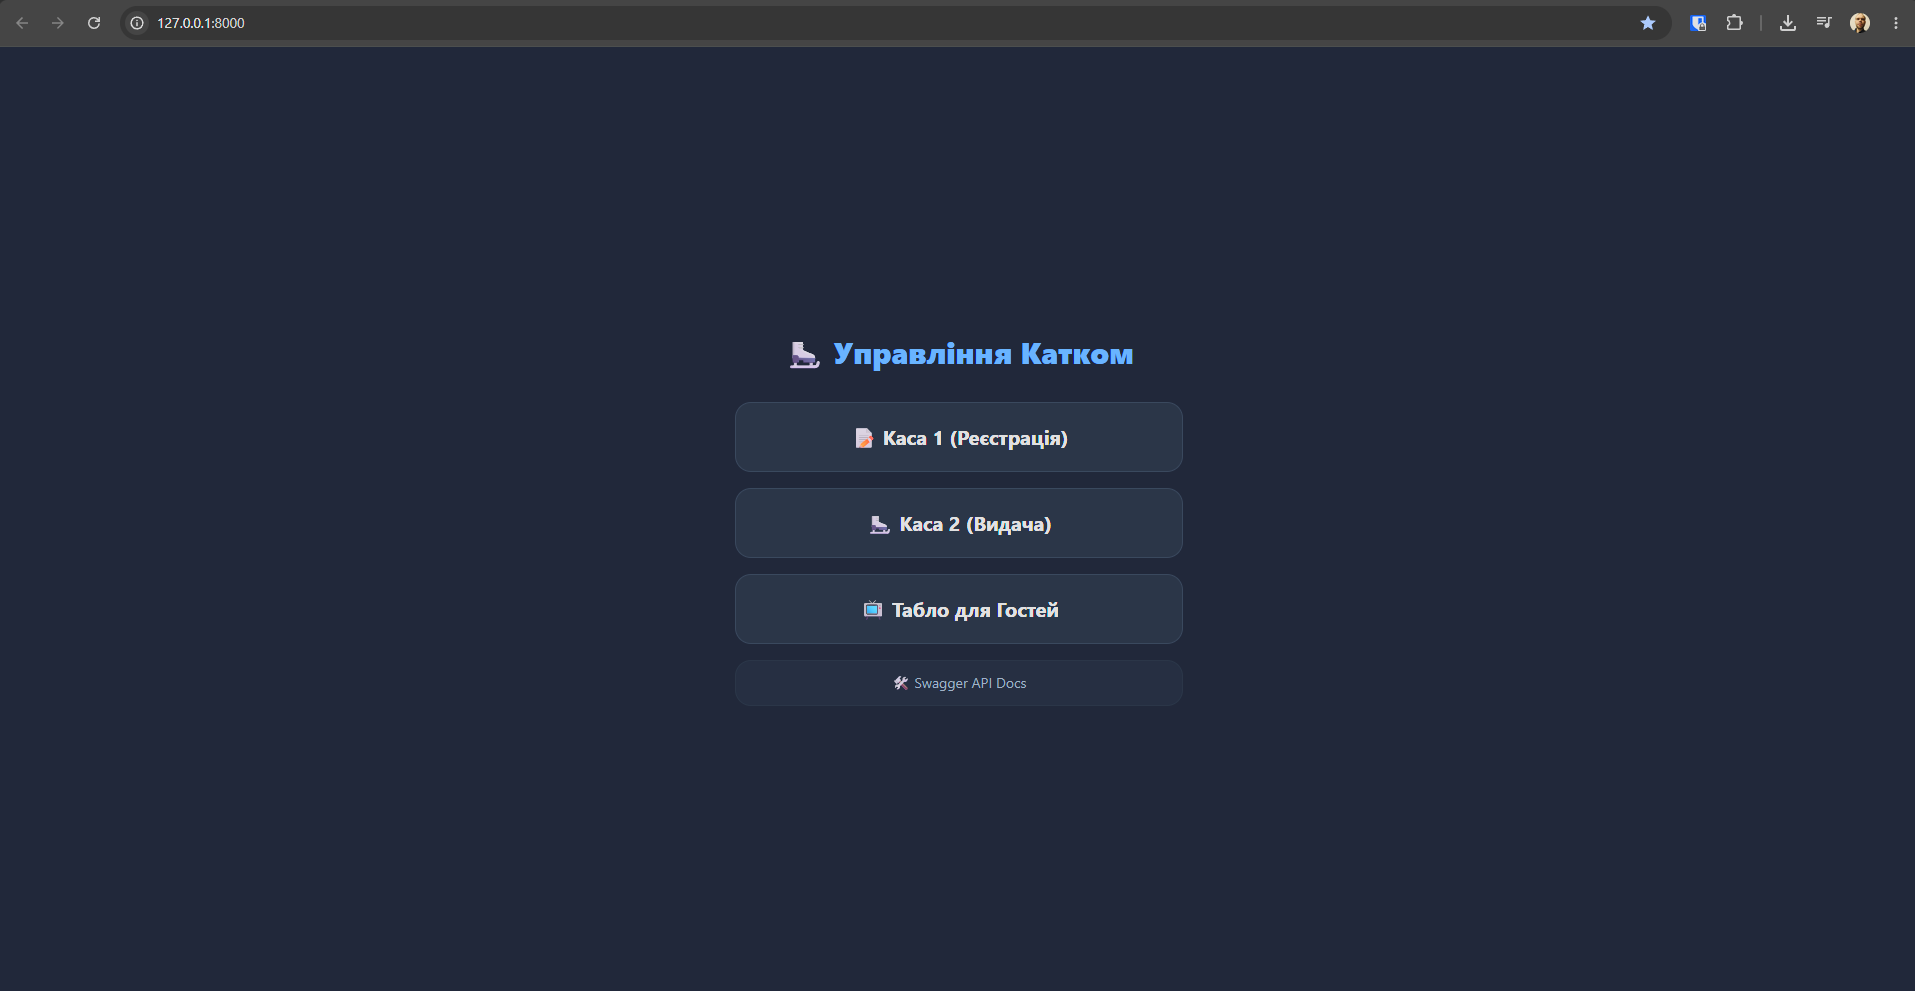
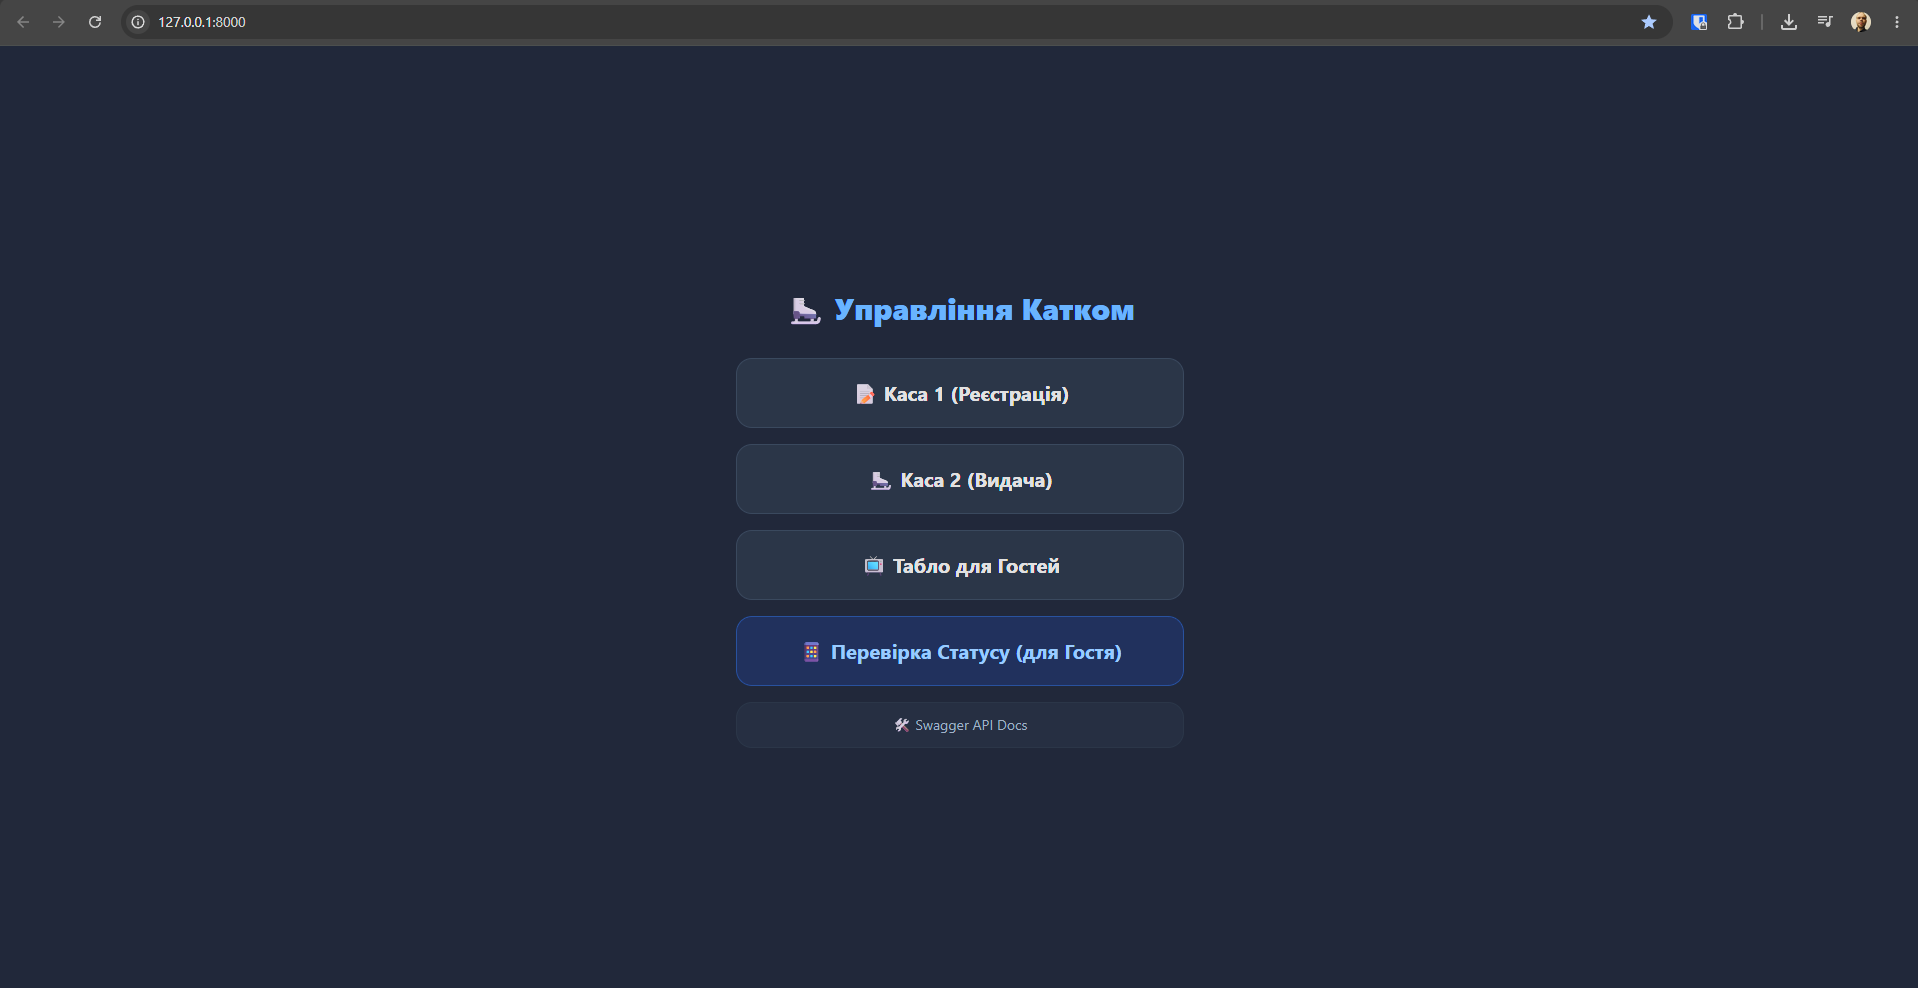
Fix a few points from review
- lower min Python version
- add status to index.html, correct status logic
- add/update screenshot(s)

diff --git a/static/index.html b/static/index.html
@@ -11,6 +11,7 @@
         <a href="/kasa1" target="_blank" class="block bg-slate-800 hover:bg-slate-700 p-5 rounded-2xl border border-slate-700 font-bold text-xl text-center">📝 Каса 1 (Реєстрація)</a>
         <a href="/kasa2" target="_blank" class="block bg-slate-800 hover:bg-slate-700 p-5 rounded-2xl border border-slate-700 font-bold text-xl text-center">⛸ Каса 2 (Видача)</a>
         <a href="/display" target="_blank" class="block bg-slate-800 hover:bg-slate-700 p-5 rounded-2xl border border-slate-700 font-bold text-xl text-center">📺 Табло для Гостей</a>
+        <a href="/status" target="_blank" class="block bg-blue-900/40 hover:bg-blue-900/60 border border-blue-500/40 p-5 rounded-2xl font-bold text-xl text-center text-blue-300 transition">📱 Перевірка Статусу (для Гостя)</a>
         <a href="/docs" target="_blank" class="block bg-slate-800/50 hover:bg-slate-800 p-3 rounded-2xl border border-slate-800 text-sm text-slate-400 text-center">🛠 Swagger API Docs</a>
     </div>
 </body>

diff --git a/static/kasa1.html b/static/kasa1.html
@@ -208,8 +208,9 @@
             },
 
             // ---- Талон ----
+            // status.html наразі шукає талон за номером (?ticket=...), не за tracking_token.
             statusLink(ticket) {
-                return '/status?token=' + ticket.tracking_token;
+                return '/status?ticket=' + ticket.ticket_number;
             },
 
             resetForm() {

diff --git a/main.py b/main.py
@@ -1,8 +1,9 @@
+from app.api import pages, queue
 from fastapi import FastAPI
 from fastapi.staticfiles import StaticFiles
 
-from app.db import Base, engine
-from app.api import pages, queue
+from app.db import engine
+from app.models import Base
 
 Base.metadata.create_all(bind=engine)
 
